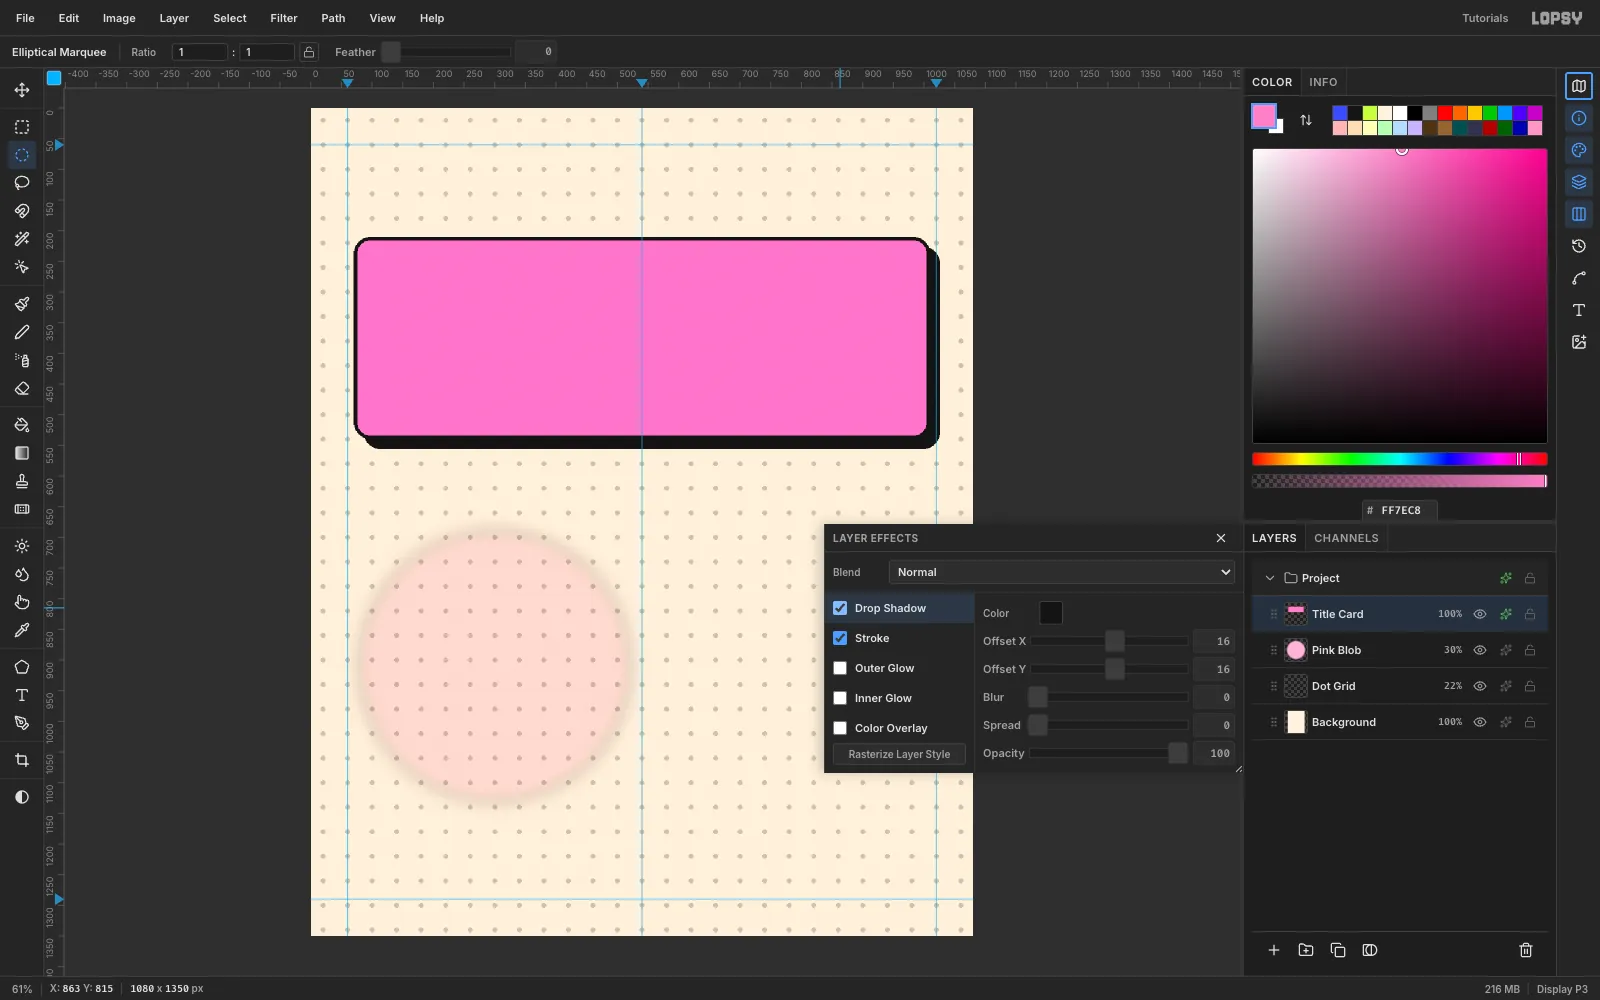
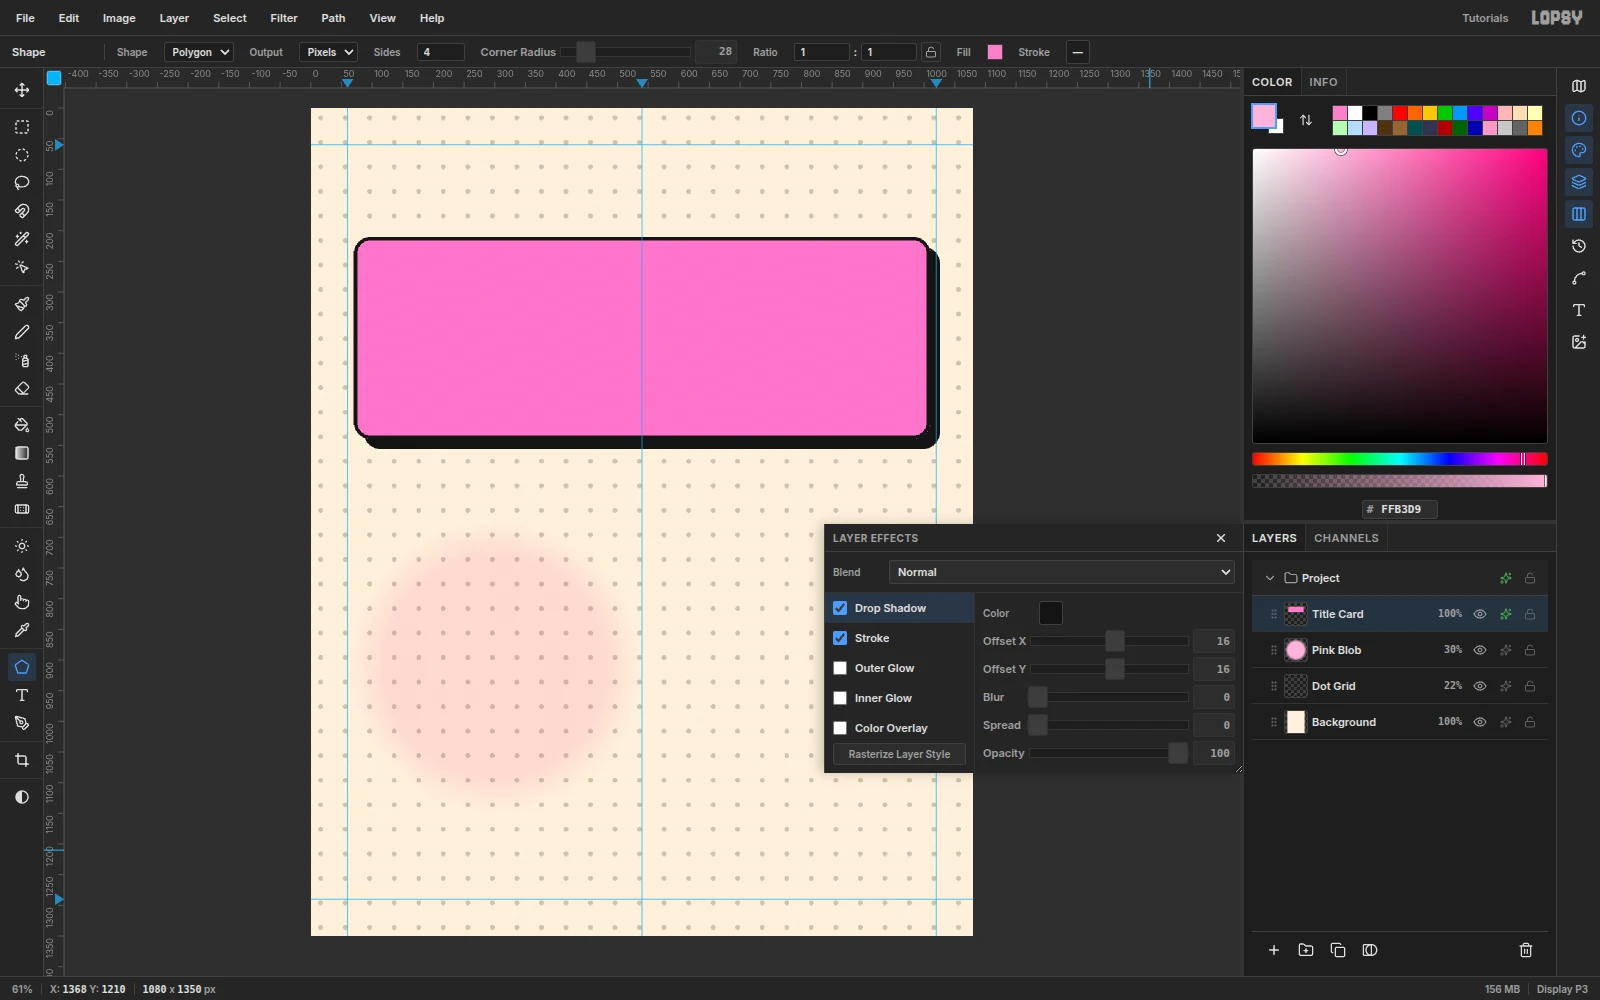
docs(tutorials): draw the invitation's rounded rectangles with the Shape tool
The neubrutalist invitation built every rounded rectangle from six
selection fills because a 4-sided polygon used to paint a square. Now
that Sides = 4 follows the drag and the Fill popover takes a hex value,
the steps use Shape -> Polygon, 4 sides, Corner Radius, clicking at each
shape's centre and typing its size. The info-card step no longer claims
the Shape tool snaps to the grid, since it doesn't.

Reshoots step 4's screenshot with the Shape tool options visible.

Claude-Session: https://claude.ai/code/session_01Txk52oB8wozW9aNYNG8J6p

diff --git a/tutorials/neubrutalist-party-invitation/index.md b/tutorials/neubrutalist-party-invitation/index.md
@@ -1,7 +1,8 @@
 ---
 title: Design a Neubrutalist Party Invitation
-description: Build a neubrutalist pool-party invitation in Lopsy with chunky outlines, hard offset shadows, rotated stickers, a flat axolotl mascot and snapped info cards.
+description: Build a neubrutalist pool-party invitation in Lopsy with rounded shapes, chunky outlines, hard shadows, rotated stickers, a flat axolotl mascot and info cards.
 published: 2026-09-26 10:00
+updated: 2026-09-28
 level: Intermediate
 duration: 50
 tags: neubrutalism, invitation, poster design, layer effects, stickers, text effects, illustration, groups
@@ -16,9 +17,9 @@ Neubrutalism takes the flat colour blocks of web UI and makes them loud:
 thick black outlines, hard offset shadows with no blur, saturated fills and
 chunky type, all slightly askew like stickers slapped on a page. In this
 tutorial you'll design a 1080 × 1350 invitation for an imaginary axolotl
-pool party, **Axolotl Xtravaganza**. You'll use a pattern fill, layer
-effects, rotate and scale transforms, copy and paste, groups, the snap grid
-and a filter.
+pool party, **Axolotl Xtravaganza**. You'll use a pattern fill, the Shape
+tool, layer effects, rotate and scale transforms, copy and paste, groups,
+the grid and a filter.
 
 The palette is five flat colours plus near-black:
 
@@ -29,11 +30,17 @@ The palette is five flat colours plus near-black:
 - Acid lime `#C6FF3D`
 - Sun yellow `#FFD93D`
 
-Almost every shape in this piece is a **rounded rectangle**. Lopsy doesn't
-have a rounded-rectangle tool, so you'll build one from selections: fill a
-rectangle inset by the corner radius horizontally, fill another inset
-vertically, then fill a circle with a diameter of twice the radius in each
-corner. It takes six quick fills and gives you a crisp, exact shape.
+Almost every shape in this piece is a **rounded rectangle**, drawn with
+the **Shape** tool ([[U]]). In the options bar, set **Shape** to
+**Polygon**, **Sides** to `4` and **Corner Radius** to the radius each step
+gives. A radius of half the height turns the rectangle into a pill.
+
+Shapes grow out from their centre, so the steps below give each one's
+centre. Click once at the centre (watch the X / Y readout in the status
+bar) and Lopsy asks for a **Width** and **Height**. Type the size and
+click **Create**. To set a colour, click the **Fill** swatch in the options
+bar and type the hex value. Leave **Stroke** off (`—`), because the
+outlines come from layer effects.
 
 ## Create the invitation document
 
@@ -80,11 +87,11 @@ later. Set **Feather** back to `0` before you draw anything else.
 
 ## Build the title slab with a stroke and hard shadow
 
-![A pink rounded rectangle with a thick black inside stroke and a solid black shadow offset down and right, with the Layer Effects drawer open](04-title-card-stroke-shadow.webp)
+![A pink rounded rectangle with a thick black inside stroke and a solid black shadow offset down and right, with the Shape tool set to Polygon, 4 sides and Corner Radius 28, and the Layer Effects drawer open](04-title-card-stroke-shadow.webp)
 
-Add a layer called `Title Card` and set the foreground to `#FF7EC8`. Build
-a rounded rectangle at (70, 210), 940 × 330 with a 28 px radius, using the
-six-fill trick from the intro.
+Add a layer called `Title Card`. Choose the **Shape** tool, set **Corner
+Radius** to `28` and **Fill** to `#FF7EC8`, then click at (540, 375) and
+create a 940 × 330 shape. The slab runs from (70, 210) to (1010, 540).
 
 Open the layer's effects and set:
 
@@ -137,10 +144,10 @@ same centre, so the type stays locked to its band.
 ![A lime pill with black RSVP BY OCT 10 / @AXOPARTY type near the bottom of the invitation, with a black outline and offset shadow](07-lime-rsvp-pill.webp)
 
 Click **Add Layer** twice. Name the first layer `Bubbles` and leave it
-empty for now. Name the second `RSVP Pill`. Build a pill at (80, 1180),
-920 × 92, with a 46 px radius (half the height), and fill it with lime
-`#C6FF3D`. Give it an Inside **Stroke** of `6` and a **Drop Shadow** of
-`10` / `10`.
+empty for now. Name the second `RSVP Pill`. With the **Shape** tool, set
+**Corner Radius** to `46` (half the height) and **Fill** to lime
+`#C6FF3D`, then click at (540, 1226) and create a 920 × 92 pill. Give it an
+Inside **Stroke** of `6` and a **Drop Shadow** of `10` / `10`.
 
 Type `RSVP BY OCT 10  /  @AXOPARTY` in **Archivo Black** at size `44` in
 ink, centre it on the pill, and rasterize it.
@@ -153,12 +160,12 @@ Stickers overlap the edges of other shapes, which gives the layout its
 collage energy. Each one is a filled shape with a thinner stroke (`5`) and
 a smaller shadow (`8` / `8`):
 
-- **Invite tag**: a white pill at (70, 150), 440 × 76 (radius 38). Its
-  bottom edge overlaps the slab. Add `YOU'RE INVITED!` in **Space Mono**
-  Bold at `34`.
-- **No Running**: a cobalt rounded rectangle at (600, 92), 264 × 58
-  (radius 16). Add `NO RUNNING!` in **Rubik Mono One** at `24` in cream,
-  rasterize it, and **Merge Down** onto the sticker.
+- **Invite tag**: a white `#FFFFFF` pill, 440 × 76 with radius `38`,
+  centred on (290, 188). Its bottom edge overlaps the slab. Add
+  `YOU'RE INVITED!` in **Space Mono** Bold at `34`.
+- **No Running**: a cobalt rounded rectangle, 264 × 58 with radius `16`,
+  centred on (732, 121). Add `NO RUNNING!` in **Rubik Mono One** at `24`
+  in cream, rasterize it, and **Merge Down** onto the sticker.
 - **Starburst**: with the **Lasso**, click an 18-point star centred on
   (952, 212), alternating between radius 122 and 95, then fill it with
   `#FFD93D`. Add `BYO` (Archivo Black, `52`) and `FLOATIE!` (`30`),
@@ -240,24 +247,26 @@ Finish with four short cream brush squiggles for ripples. The pool covers
 the bottom of the head and the arms, so the axolotl is sitting in the
 water.
 
-## Lay out the info cards on the snap grid
+## Lay out the info cards on the grid
 
 ![Three rounded rectangles in lime, yellow and pink stacked on the right with the 16 px grid visible, and small black tabs on their top edges](13-info-cards-snap-grid.webp)
 
 Click `Bubbles` again and create a **New Group** called `Info Cards`.
-Choose **View → Show Grid**. The grid defaults to 16 px, with **Snap**
-turned on. Marquee corners snap to the grid lines, so the cards line up
-perfectly.
+Choose **View → Show Grid**. The grid defaults to 16 px, which makes it
+easy to check the stack by eye.
 
-Add three layers and build a 416 × 128 card (radius 16) on each:
+Add three layers. With the **Shape** tool and **Corner Radius** `16`,
+create a 416 × 128 card on each:
 
-- `Card When`: lime, at (604, 707)
-- `Card Where`: yellow, at (588, 851)
-- `Card Wear`: pink, at (604, 995)
+- `Card When`: lime, centred on (812, 771)
+- `Card Where`: yellow, centred on (796, 915)
+- `Card Wear`: pink, centred on (812, 1059)
 
-The middle card sits 16 px to the left, which breaks up the stack. Hide
-the grid again, then add a black 112 × 36 tab (radius 10) to each card at
-its top-left, 18 px in and hanging 18 px above the edge.
+The middle card sits one grid square (16 px) to the left, which breaks up
+the stack. Hide the grid again. Then set **Corner Radius** to `10` and
+**Fill** to ink, and add a 112 × 36 tab to each card's layer, 18 px in from
+its left edge and hanging 18 px above it. The tabs are centred on
+(678, 707), (662, 851) and (678, 995).
 
 ## Write the card details
 
